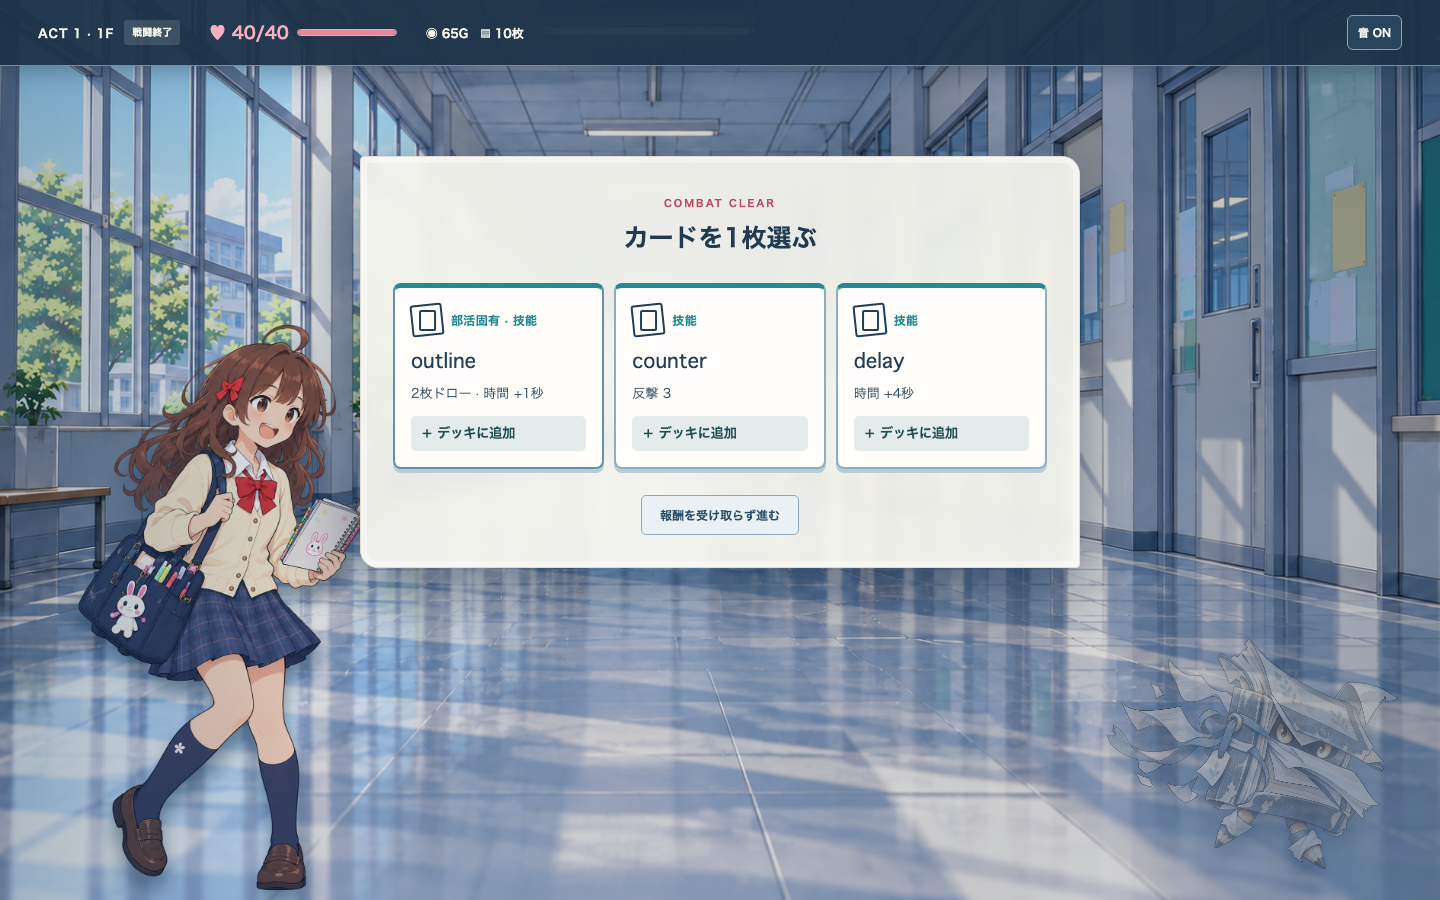
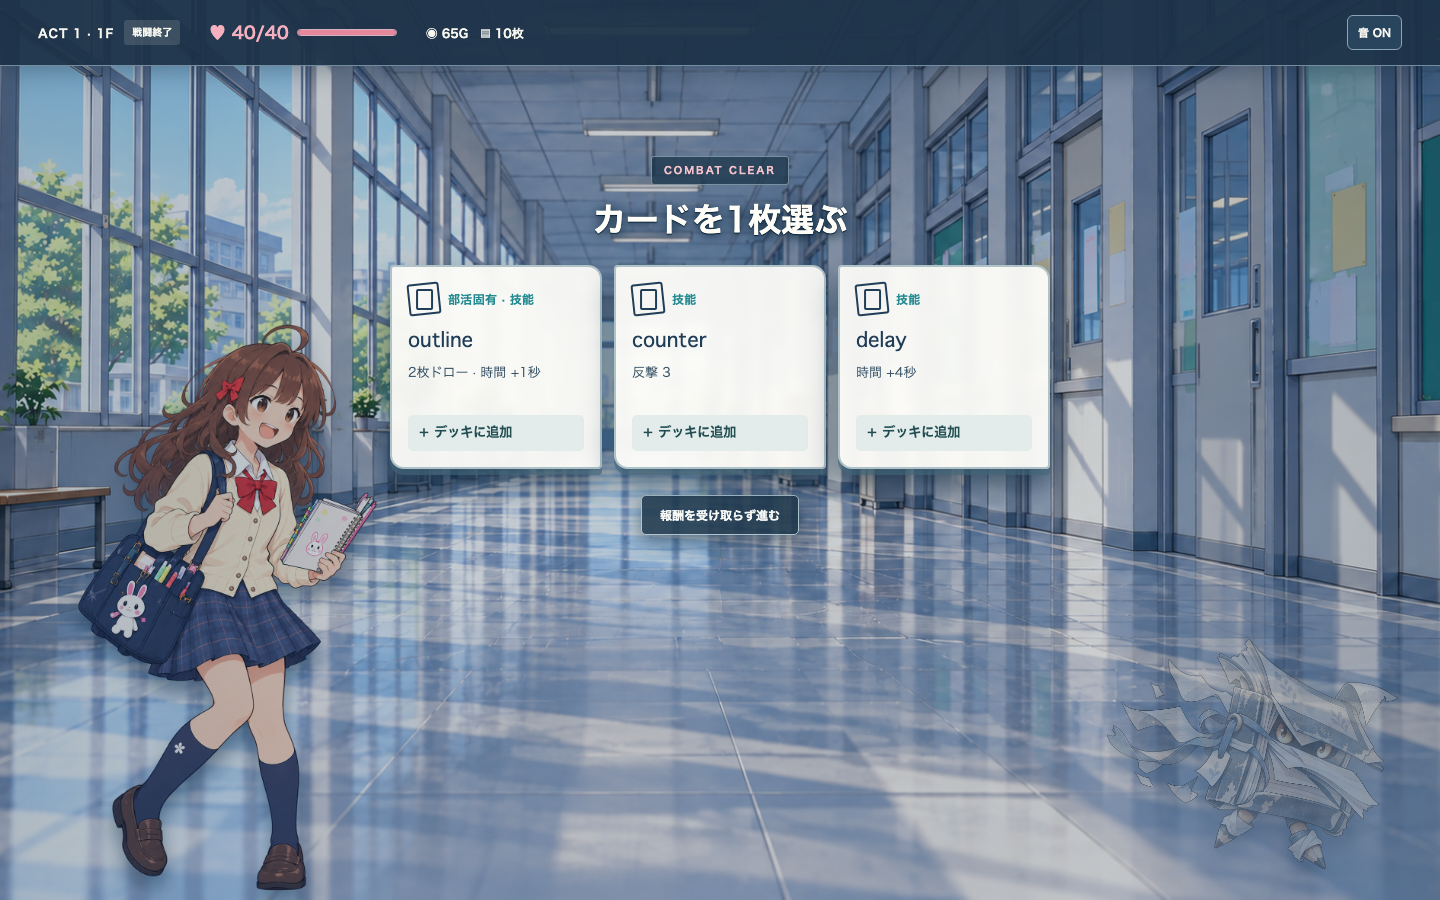
fix: 報酬の白い面を除き紙札を舞台上に置く

diff --git a/src/ui/reward-scene.css b/src/ui/reward-scene.css
@@ -10,7 +10,7 @@
 .reward-scene-actors img { position: absolute; bottom: 0; object-fit: contain; object-position: bottom; }
 .reward-scene-hero { left: 2%; width: min(28vw, 390px); height: min(72vh, 620px); filter: drop-shadow(0 14px 10px #15314d80); }
 .reward-scene-enemy { right: 2%; width: min(24vw, 330px); height: min(56vh, 500px); opacity: .42; filter: grayscale(.25) drop-shadow(0 12px 10px #15314d80); }
-.reward-scene-shade { z-index: 1; background: linear-gradient(90deg, #112f4954 0%, #18385124 21%, #15314928 77%, #112f4954 100%); }
+.reward-scene-shade { z-index: 1; background: linear-gradient(90deg, #112f4954 0%, #15314942 24%, #17354c36 76%, #112f4954 100%); }
 .reward-scene-header { z-index: 4; justify-content: flex-start; gap: clamp(12px, 2vw, 30px); min-height: 66px; }
 .reward-scene-location { flex: none; display: flex; align-items: center; gap: 10px; font-size: 12px; font-weight: 900; letter-spacing: .07em; }
 .reward-scene-location span { padding: 5px 8px; border-radius: 3px; background: #ebf0ed25; font-size: 10px; letter-spacing: 0; }
@@ -19,9 +19,14 @@
 .reward-scene-health-track > span { display: block; height: 100%; background: #e5879d; }
 .reward-scene-resources { display: flex; gap: 12px; font-size: 12px; font-weight: 800; }
 .reward-scene-header .audio-toggle { margin-left: auto; }
-.reward-scene-overlay { z-index: 3; width: min(720px, calc(100% - 40px)); margin: clamp(42px, 10vh, 104px) auto 40px; border: 1px solid #e4dfd2; border-radius: 4px 18px 4px 18px; background: #f8f7f0e8; box-shadow: 0 25px 80px #0c233b92, inset 0 0 0 6px #ffffff6e; backdrop-filter: blur(8px); }
-.reward-scene-overlay .reward-options { max-width: 660px; grid-template-columns: repeat(3, minmax(0, 1fr)); gap: 10px; }
-.reward-scene-overlay .reward-card { background: #fffefa; }
+.reward-scene-overlay { z-index: 3; width: min(720px, calc(100% - 40px)); margin: clamp(42px, 10vh, 104px) auto 40px; padding: 0; border: 0; border-radius: 0; background: transparent; box-shadow: none; }
+.reward-scene-overlay .eyebrow { display: inline-block; padding: 6px 12px; border: 1px solid #a9bdc8a0; border-radius: 3px; background: #1b3549bf; color: #f6c3cd; }
+.reward-scene-overlay h2 { margin: 10px 0 18px; color: #fffdf8; font-size: clamp(24px, 2.7vw, 33px); text-shadow: 0 2px 12px #0d2739, 0 1px 1px #0d2739; }
+.reward-scene-overlay .reward-options { max-width: 660px; grid-template-columns: repeat(3, minmax(0, 1fr)); gap: 12px; margin-top: 20px; }
+.reward-scene-overlay .reward-card { min-height: 204px; border: 2px solid #afc2c8; border-radius: 4px 14px 4px 14px; background: #fffefaee; box-shadow: 0 6px 0 #43677a9c, 0 16px 28px #0d273b99; backdrop-filter: blur(5px); }
+.reward-scene-overlay .reward-card:hover,
+.reward-scene-overlay .reward-card:focus-visible { border-color: #d76b83; box-shadow: 0 7px 0 #684c619c, 0 18px 30px #0d273bbb; }
+.reward-scene-overlay .skip-reward { border-color: #adc5d0; background: #1b3549d9; color: #f8faf8; box-shadow: 0 6px 18px #0d273b88; }
 @media (max-width: 1100px) {
   .reward-scene-hero { left: -6%; width: min(33vw, 320px); height: 57vh; }
   .reward-scene-enemy { right: -4%; width: min(35vw, 350px); height: min(60vh, 500px); opacity: .68; }

diff --git a/docs/art/issue220-reward-scene-review.md b/docs/art/issue220-reward-scene-review.md
@@ -3,7 +3,7 @@
 ## 表示の判断
 
 - 戦闘と同じ現在地点の背景画像を使い、味方と最後に倒した敵を装飾層として残す。敵は薄く表示し、選択対象と混同させない。
-- 半透明の紙面に報酬カード3枚を置き、取得・スキップを主操作にする。戦闘中の入力欄と時計は報酬画面に持ち込まない。
+- 戦闘ステージ上に報酬の紙札3枚を独立して浮かせ、取得・スキップを主操作にする。大きな白いパネルで舞台を隠さず、見出しと各紙札だけに読める背景を与える。戦闘中の入力欄と時計は報酬画面に持ち込まない。
 - ヘッダには現在地点、HPゲージ、所持金、デッキ枚数を置く。ゲームタイトルは出さない。
 - 人物画像は読み上げ上の操作対象にせず、カードと操作ボタンの意味を短い文字で残す。
 
